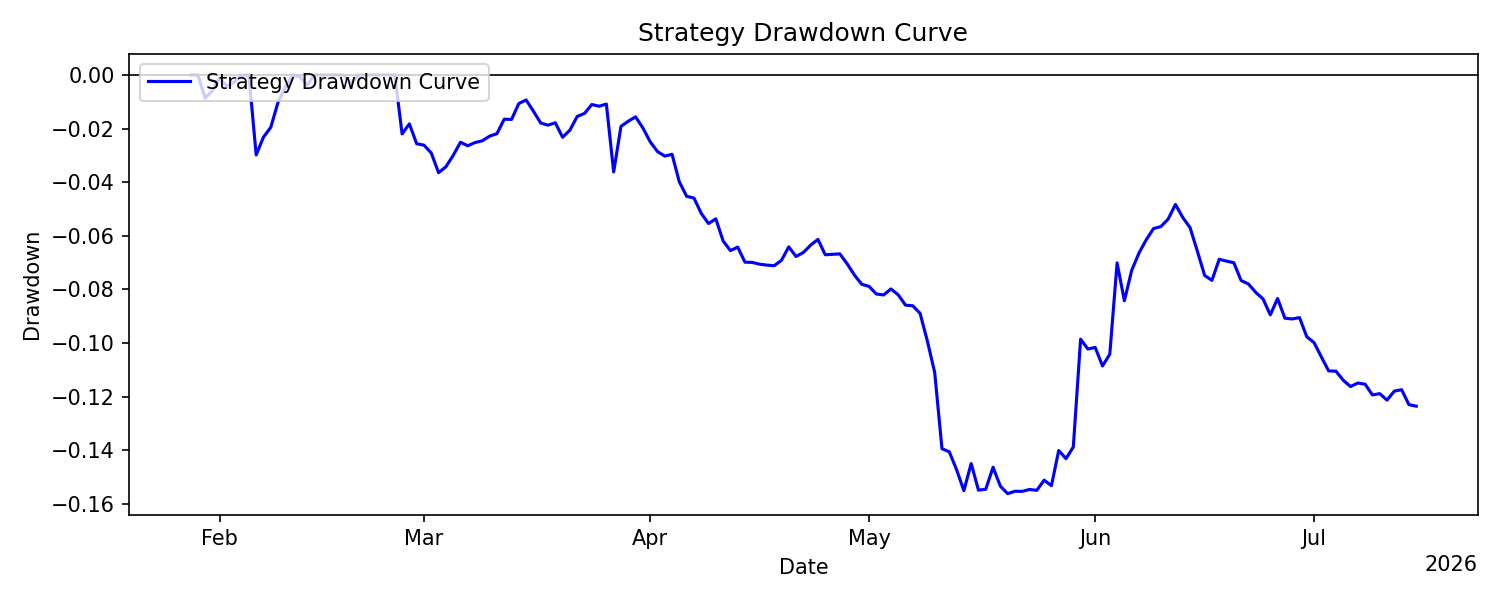
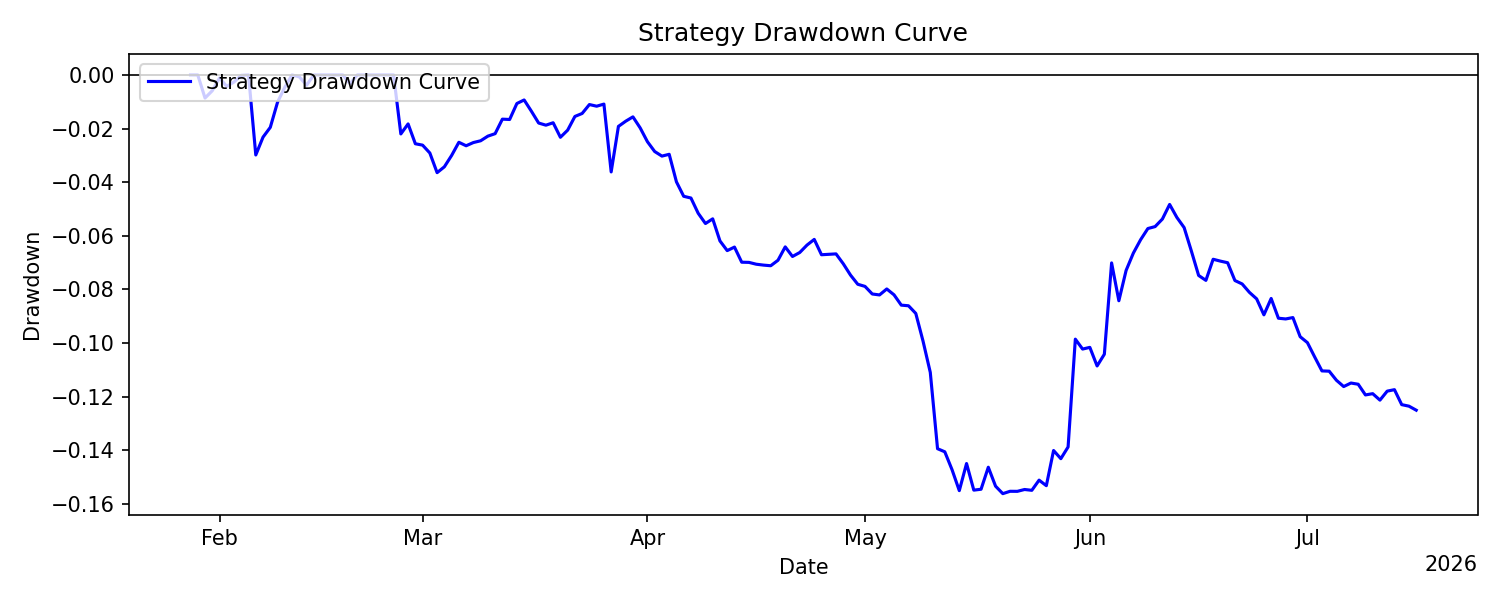
Update reports: 2026-07-16 00:07:35 UTC

diff --git a/README.md b/README.md
@@ -24,26 +24,26 @@ All results are live and reported net of transaction costs and slippage.
 <!-- METRICS_START -->
 | metric                       |        values |
 |:-----------------------------|--------------:|
-| Number of Observations       | 169           |
-| Mean Daily Return            |  -0.000403466 |
-| Daily Volatility             |   0.00865893  |
-| Mean Annualized Return       |  -0.147265    |
-| Annualized Volatility        |   0.165429    |
+| Number of Observations       | 170           |
+| Mean Daily Return            |  -0.000411156 |
+| Daily Volatility             |   0.00863385  |
+| Mean Annualized Return       |  -0.150072    |
+| Annualized Volatility        |   0.16495     |
 | Maximum Drawdown             |  -0.156146    |
-| Max Drawdown Duration (Days) | 140           |
-| Sharpe                       |  -0.890202    |
-| Sortino                      |  -1.2248      |
-| Calmar                       |  -0.943123    |
-| CAGR                         |  -0.148588    |
-| Skewness                     |   0.704892    |
-| Excess Kurtosis              |   8.57434     |
-| Win Rate                     |   0.467456    |
-| Profit Factor                |   0.861518    |
-| VaR 1%                       |  -0.0278246   |
+| Max Drawdown Duration (Days) | 141           |
+| Sharpe                       |  -0.909805    |
+| Sortino                      |  -1.25266     |
+| Calmar                       |  -0.9611      |
+| CAGR                         |  -0.150909    |
+| Skewness                     |   0.709478    |
+| Excess Kurtosis              |   8.64084     |
+| Win Rate                     |   0.464706    |
+| Profit Factor                |   0.858535    |
+| VaR 1%                       |  -0.0277949   |
 | CVaR 1%                      |  -0.030925    |
-| VaR 5%                       |  -0.0110338   |
+| VaR 5%                       |  -0.0109966   |
 | CVaR 5%                      |  -0.0208176   |
-| Correlation with BTC         |  -0.00989891  |
+| Correlation with BTC         |  -0.0101024   |
 <!-- METRICS_END -->
 
 ## Sharpe Statistics
@@ -55,14 +55,14 @@ All results are live and reported net of transaction costs and slippage.
 | metric                     |   values |
 |:---------------------------|---------:|
 | alpha                      |   0.05   |
-| t-statistic                |  -0.6057 |
-| p-value                    |   0.5455 |
-| Daily Sharpe Ratio         |  -0.0466 |
-| Annualized Sharpe Ratio    |  -0.8902 |
-| Sharpe Standard Error      |   1.5021 |
-| C.I. Lower Bound           |  -3.8344 |
-| C.I. Upper Bound           |   2.054  |
-| Bootstrap C.I. Lower Bound |  -4.3191 |
-| Bootstrap C.I. Upper Bound |   3.0358 |
+| t-statistic                |  -0.6209 |
+| p-value                    |   0.5355 |
+| Daily Sharpe Ratio         |  -0.0476 |
+| Annualized Sharpe Ratio    |  -0.9098 |
+| Sharpe Standard Error      |   1.4986 |
+| C.I. Lower Bound           |  -3.847  |
+| C.I. Upper Bound           |   2.0274 |
+| Bootstrap C.I. Lower Bound |  -4.3343 |
+| Bootstrap C.I. Upper Bound |   2.9753 |
 <!-- SHARPE_END -->
 
